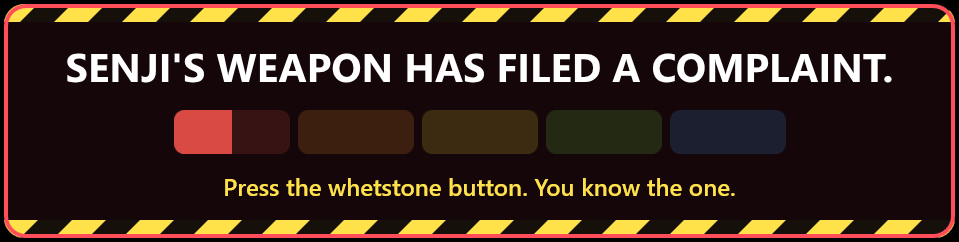
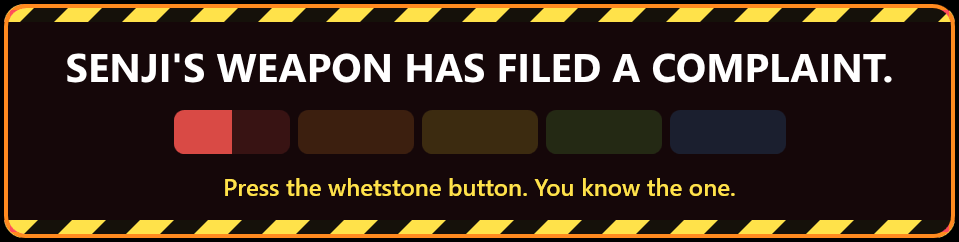
Sharpen reminder: orange border instead of red

Changed region(s): [[0.0, 0.0, 0.9979, 0.9256], [0.0, 0.9545, 0.9979, 0.9835]]

diff --git a/SmartHunter/Ui/Windows/SharpenAlertWindow.xaml b/SmartHunter/Ui/Windows/SharpenAlertWindow.xaml
@@ -30,7 +30,7 @@
     <Grid x:Name="Root" Margin="40" UseLayoutRounding="True">
 
         <Grid x:Name="Card" MinWidth="820">
-            <!--The tape runs to the card's edge under a rounded clip, and the red outline is drawn on top of it: a border
+            <!--The tape runs to the card's edge under a rounded clip, and the orange outline is drawn on top of it: a border
                 around the clipped content left the tape's square corners poking out past the border's inner curve-->
             <Border CornerRadius="20" Background="#F2160709" behaviors:RoundClip.Radius="20">
                 <StackPanel>
@@ -57,7 +57,7 @@
                     <Rectangle Height="18" Fill="{StaticResource B_Tape}" />
                 </StackPanel>
             </Border>
-            <Border CornerRadius="20" BorderBrush="{StaticResource B_Danger}" BorderThickness="4" IsHitTestVisible="False" />
+            <Border CornerRadius="20" BorderBrush="#FF8A1F" BorderThickness="4" IsHitTestVisible="False" />
         </Grid>
     </Grid>
 </Window>
